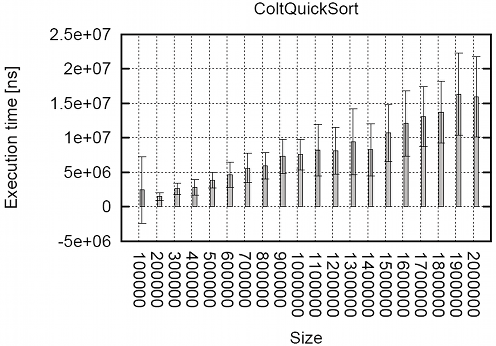
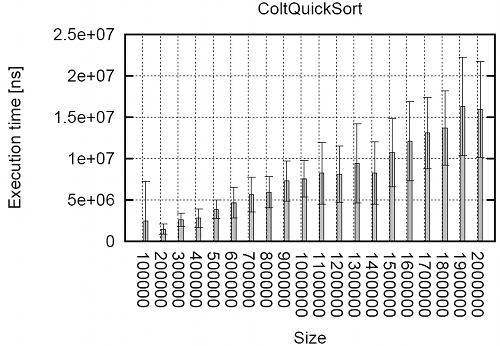
Set minY

diff --git a/src/example/example1/SortEvaluation.java b/src/example/example1/SortEvaluation.java
@@ -115,6 +115,7 @@ public class SortEvaluation {
         params.xticsrotate = -90;
         params.keypos = KeyPos.TOP_LEFT;
         params.size = 0.6d;
+        params.minY = 0d;
         return new PlotGroup("Individual execution times", plots, params, 1.0d);
     }
 
